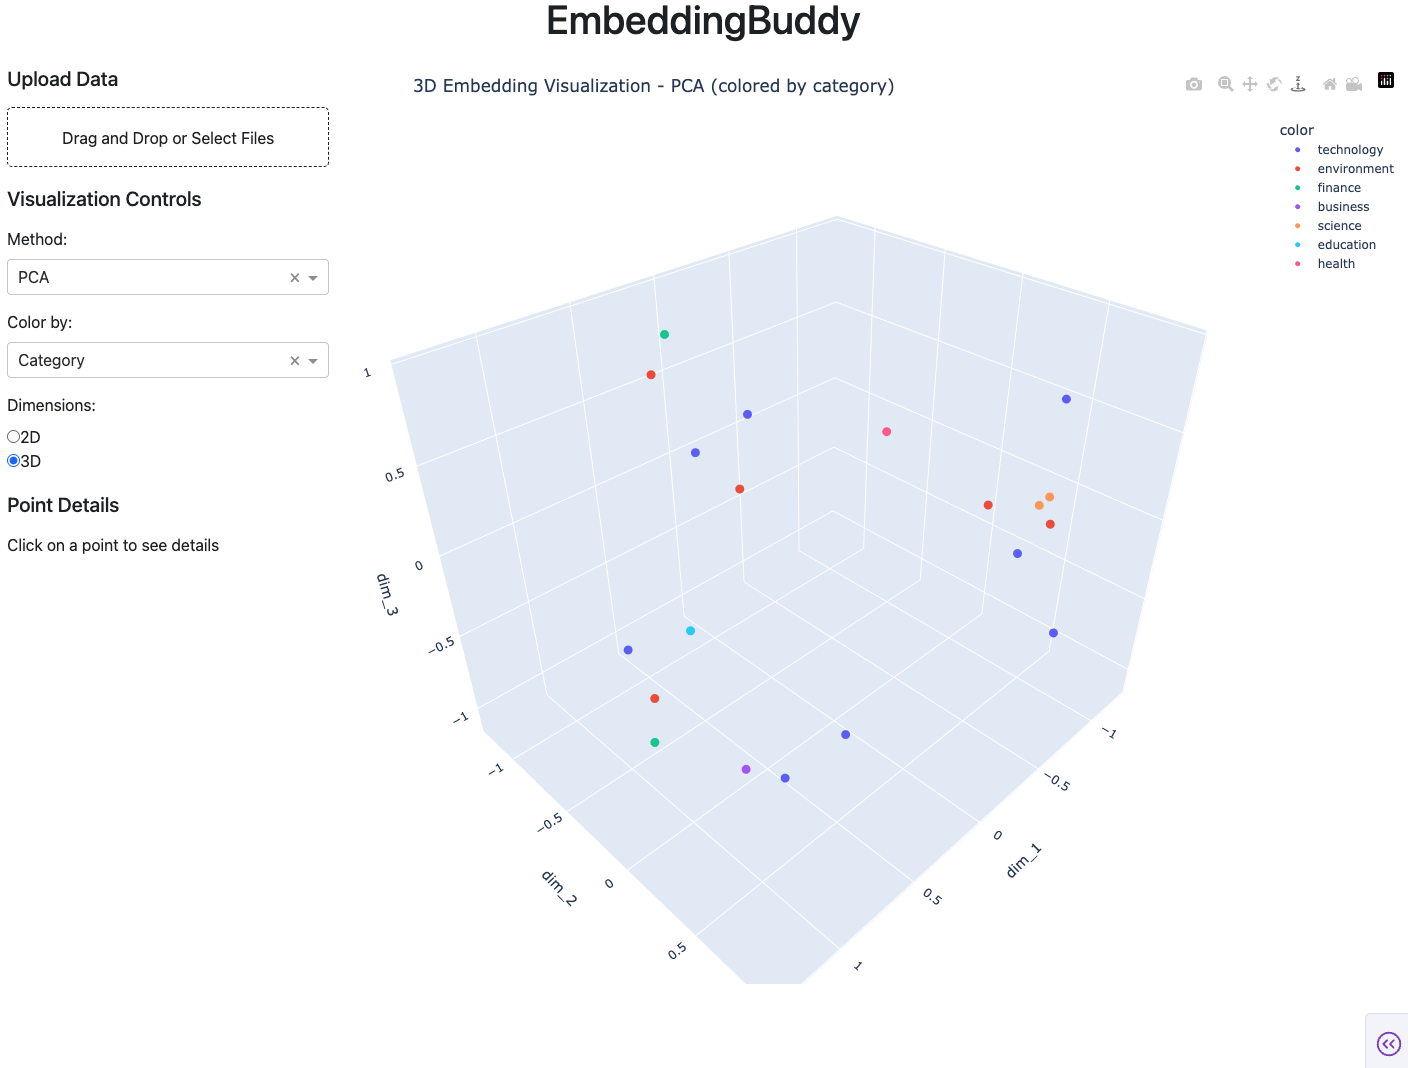
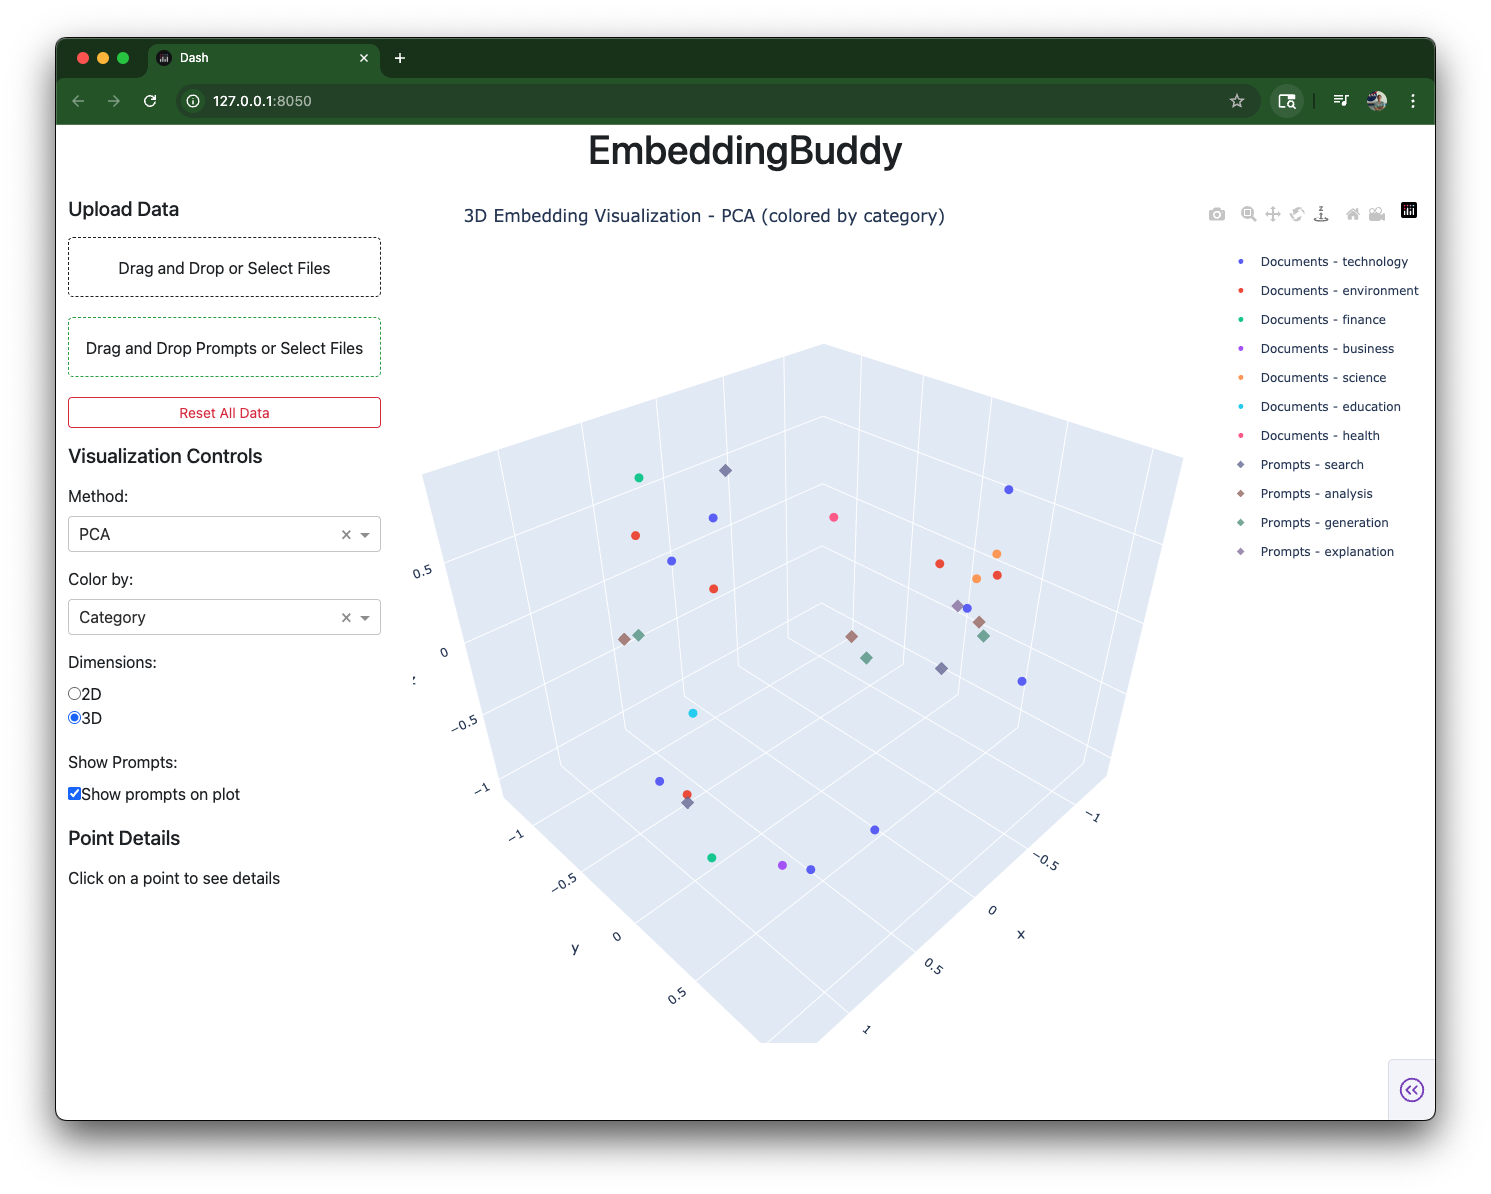
update readme and screenshot

diff --git a/README.md b/README.md
@@ -1,7 +1,8 @@
 # EmbeddingBuddy
 
-A Python Dash application for interactive exploration and visualization of
-embedding vectors through dimensionality reduction techniques.
+A web application for interactive exploration and visualization of embedding
+vectors through dimensionality reduction techniques. Compare documents and prompts
+in the same embedding space to understand semantic relationships.
 
 ![Screenshot of 3d graph and UI for Embedding Buddy](./embedding-buddy-screenshot.png)
 
@@ -9,28 +10,45 @@ embedding vectors through dimensionality reduction techniques.
 
 EmbeddingBuddy provides an intuitive web interface for analyzing high-dimensional
 embedding vectors by applying various dimensionality reduction algorithms and
-visualizing the results in interactive 2D and 3D plots.
+visualizing the results in interactive 2D and 3D plots. The application supports
+dual dataset visualization, allowing you to compare documents and prompts to
+understand how queries relate to your content.
 
 ## Features
 
-- **Dimensionality Reduction**: Support for PCA, t-SNE, and UMAP algorithms
-- **Interactive Visualizations**: 2D and 3D plots using Plotly
-- **Web Interface**: Built with Python Dash for easy accessibility
-- **Vector Analysis**: Tools for exploring embedding vector relationships and
-  patterns
+- **Dual file upload** - separate drag-and-drop for documents and prompts
+- **Multiple dimensionality reduction methods**: PCA, t-SNE, and UMAP
+- **Interactive 2D/3D visualizations** with toggle between views
+- **Color coding options** by category, subcategory, or tags
+- **Visual distinction**: Documents appear as circles, prompts as diamonds with desaturated colors
+- **Prompt visibility toggle** - show/hide prompts to reduce visual clutter
+- **Point inspection** - click points to view full content and identify document vs prompt
+- **Reset functionality** - clear all data to start fresh
+- **Sidebar layout** with controls on left, large visualization area on right
+- **Real-time visualization** optimized for small to medium datasets
 
 ## Data Format
 
-EmbeddingBuddy accepts newline-delimited JSON (NDJSON) files where each line contains an embedding document with the following structure:
+EmbeddingBuddy accepts newline-delimited JSON (NDJSON) files for both documents
+and prompts. Each line contains an embedding with the following structure:
+
+**Documents:**
 
 ```json
 {"id": "doc_001", "embedding": [0.1, -0.3, 0.7, ...], "text": "Sample text content", "category": "news", "subcategory": "politics", "tags": ["election", "politics"]}
 {"id": "doc_002", "embedding": [0.2, -0.1, 0.9, ...], "text": "Another example", "category": "review", "subcategory": "product", "tags": ["tech", "gadget"]}
 ```
 
+**Prompts:**
+
+```json
+{"id": "prompt_001", "embedding": [0.15, -0.28, 0.65, ...], "text": "Find articles about machine learning applications", "category": "search", "subcategory": "technology", "tags": ["AI", "research"]}
+{"id": "prompt_002", "embedding": [0.72, 0.18, -0.35, ...], "text": "Show me product reviews for smartphones", "category": "search", "subcategory": "product", "tags": ["mobile", "reviews"]}
+```
+
 **Required Fields:**
 
-- `embedding`: Array of floating-point numbers representing the vector
+- `embedding`: Array of floating-point numbers representing the vector (must be same dimensionality for both documents and prompts)
 - `text`: String content associated with the embedding
 
 **Optional Fields:**
@@ -40,15 +58,7 @@ EmbeddingBuddy accepts newline-delimited JSON (NDJSON) files where each line con
 - `subcategory`: Secondary classification
 - `tags`: Array of string tags for flexible labeling
 
-## Features
-
-- **Drag-and-drop file upload** for NDJSON embedding datasets
-- **Multiple dimensionality reduction methods**: PCA, t-SNE, and UMAP
-- **Interactive 2D/3D visualizations** with toggle between views
-- **Color coding options** by category, subcategory, or tags
-- **Point inspection** - click points to view full document content
-- **Sidebar layout** with controls on left, large visualization area on right
-- **Real-time visualization** optimized for small to medium datasets
+**Important:** Document and prompt embeddings must have the same number of dimensions to be visualized together.
 
 ## Installation & Usage
 
@@ -68,7 +78,10 @@ uv run python app.py
 
 3. **Open your browser** to http://127.0.0.1:8050
 
-4. **Test with sample data** by dragging and dropping the included `sample_data.ndjson` file
+4. **Test with sample data**:
+   - Upload `sample_data.ndjson` (documents)
+   - Upload `sample_prompts.ndjson` (prompts) to see dual visualization
+   - Use the "Show prompts" toggle to compare how prompts relate to documents
 
 ## Tech Stack
 
